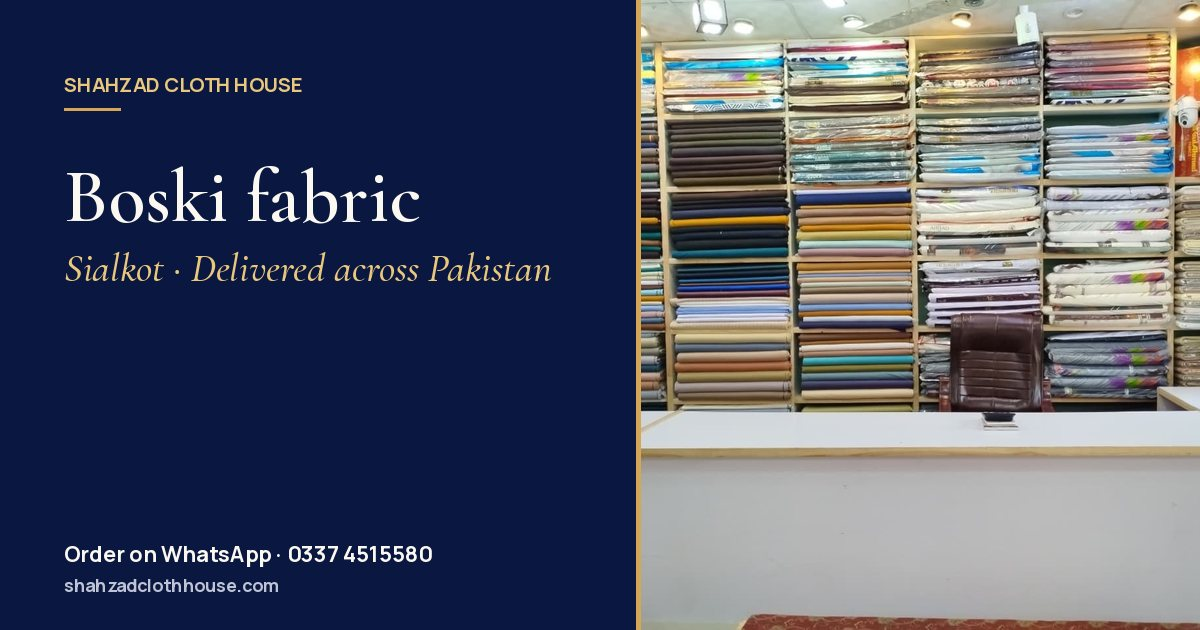
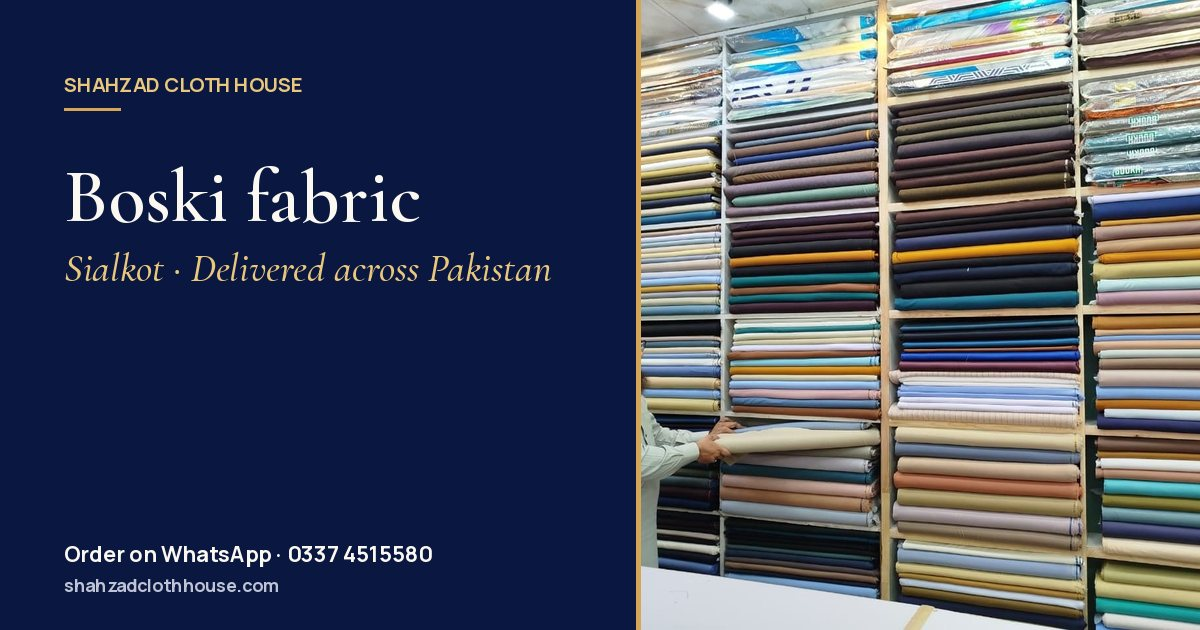
Use only photos already approved for the site
Drop the four photos added in the first commit. Earlier work left them
out on purpose: the boxed suits show another brand's labels, the
counter shot shows a sale-price sign, and the empty-counter shot was
rejected. The new pages now use existing shop photos instead.

Claude-Session: https://claude.ai/code/session_01D3FLCfkFzjpMvbDHgTLq1G

diff --git a/app/categories.ts b/app/categories.ts
@@ -388,8 +388,8 @@ export const CATEGORIES: Category[] = [
     lead:
       "Boski has been the fabric for a special shalwar kameez for generations: smooth in the hand, with a soft natural sheen and the classic cream-to-golden colour. We cut it at the counter to the length your tailor asks for.",
     urdu: "بوسکی",
-    photo: "gents-shelves-white",
-    gallery: ["boxed-suits", "thaan", "gents-counter", "packing-urdu"],
+    photo: "thaan",
+    gallery: ["suiting-wall", "gents-counter", "suiting-close", "packing-urdu"],
     season: "Eid · Weddings",
     about: [
       "Boski is the fabric many families still choose for Eid, Jumma and weddings. It has a smooth hand and a quiet sheen, and it is best known in cream, off-white and golden tones. Men wear it as a shalwar kameez or a kurta, often with a waistcoat for a dawat or the mehndi.",
@@ -445,8 +445,8 @@ export const CATEGORIES: Category[] = [
     lead:
       "Latha is the crisp white cotton behind a starched shalwar kameez that looks fresh all day. A favourite for Jumma, Eid and the summer months, cut at our counter to the length your tailor needs.",
     urdu: "لٹھا",
-    photo: "boxed-suits",
-    gallery: ["boxed-suits-close", "gents-shelves-white", "cotton-light", "order-online"],
+    photo: "cotton-light",
+    gallery: ["cotton-linen", "wash-and-wear", "thaan-2", "order-online"],
     season: "Jumma · Eid",
     about: [
       "Latha is a smooth, tightly woven cotton, and white latha is the classic choice for a starched shalwar kameez. It breathes well in the heat and takes starch evenly, so the suit stays crisp through a long day. Many men keep a white latha suit for Jumma and Eid, and buy matching lengths for the whole family.",
@@ -503,7 +503,7 @@ export const CATEGORIES: Category[] = [
       "Raw silk has the texture and quiet sheen that make an Eid or mehndi outfit feel special. Raw silk and katan for ladies shirts, trousers and dupattas, and for gents kurtas, cut to the length you need.",
     urdu: "را سلک",
     photo: "silk-jacquard",
-    gallery: ["festive-counter", "wedding", "velvet-side", "ladies-close"],
+    gallery: ["wedding", "velvet-side", "ladies-close", "packed-suits"],
     season: "Festive",
     about: [
       "Raw silk has a slightly textured surface and a soft sheen, with enough body to hold the shape of a shirt or a trouser. It is a favourite for Eid, dawats, the mehndi and the nikah, and it pairs well with an embroidered dupatta. We keep katan alongside it for a smoother, shinier finish.",

diff --git a/app/photos.ts b/app/photos.ts
@@ -34,10 +34,6 @@ const ALL = {
   "velvet-shop": { src: shop("velvet-suit-shop"), alt: "Embroidered velvet suit on display in the shop at Shahzad Cloth House", caption: "Velvet on display in the shop" },
   "order-online": { src: shop("packing"), alt: "Packing an order in a Shahzad Cloth House bag at the shop counter", caption: "Packing an order for delivery" },
   "packing-urdu": { src: shop("packing-urdu-bag"), alt: "Putting fabric into a Shahzad Cloth House bag with the shop name in Urdu", caption: "Packed in our own bag" },
-  "boxed-suits": { src: shop("boxed-suits"), alt: "Boxed premium gents suits in cream, white, grey, black and gold on the counter at Shahzad Cloth House", caption: "Boxed gents suits on the counter" },
-  "boxed-suits-close": { src: shop("boxed-suits-close"), alt: "Boxed gents cotton suits in white, gold, black and grey at Shahzad Cloth House", caption: "Premium boxed cotton suits" },
-  "gents-shelves-white": { src: shop("gents-shelves-white"), alt: "Shelves of gents suiting behind the counter, with packed suits in white and cream on the right, at Shahzad Cloth House", caption: "Packed gents suits in white and cream", pos: "82% center" },
-  "festive-counter": { src: shop("festive-counter"), alt: "Festive embroidered fabric in plum, teal and purple opened out on the counter at Shahzad Cloth House", caption: "Festive fabric opened out on the counter", pos: "70% center" },
 } satisfies Record<string, Photo>;
 
 export type PhotoKey = keyof typeof ALL;
